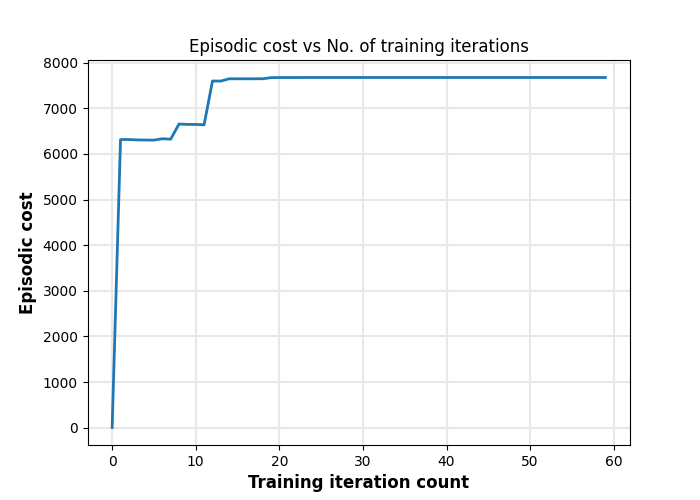
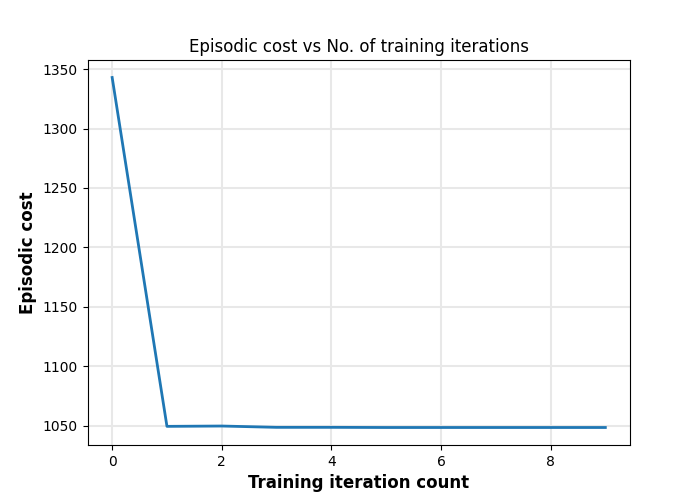
corrected main_ilqr

diff --git a/src/main_ilqr.py b/src/main_ilqr.py
@@ -89,10 +89,10 @@ class iLQR:
 
     def backward_pass(self):
         ################## defining local functions & variables for faster access ################
-        k = self.k
-        K = self.K
-        V_x = self.V_x
-        V_xx = self.V_xx
+        k = np.copy(self.k)
+        K = np.copy(self.K)
+        V_x = np.copy(self.V_x)
+        V_xx = np.copy(self.V_xx)
         ##########################################################################################
 
         V_x[self.N-1] = self.l_x_N(self.X[self.N-1])	
@@ -121,10 +121,10 @@ class iLQR:
             except np.linalg.LinAlgError:
                 print("FAILED! Q_uu is not Positive definite at t=",t)
                 backward_pass_flag = 0
-                k = self.k
-                K = self.K
-                V_x = self.V_x
-                V_xx = self.V_xx
+                k = np.copy(self.k)
+                K = np.copy(self.K)
+                V_x = np.copy(self.V_x)
+                V_xx = np.copy(self.V_xx)
 
             else:
                 backward_pass_flag = 1
@@ -140,10 +140,10 @@ class iLQR:
                     V_xx[t-1] = Q_xx + ((K[t].T) @ (Q_uu @ K[t])) + ((K[t].T) @ Q_ux) + ((Q_ux.T) @ K[t])
 
 		######################### Update the new gains ##############################################
-        self.k = k
-        self.K = K
-        self.V_x = V_x
-        self.V_xx = V_xx
+        self.k = np.copy(k)
+        self.K = np.copy(K)
+        self.V_x = np.copy(V_x)
+        self.V_xx = np.copy(V_xx)
 
         return backward_pass_flag, del_J_alpha
     
@@ -152,8 +152,8 @@ class iLQR:
         #cost before forward pass
         J1 = self.calculate_total_cost(self.X_0, self.X, self.U, self.N)
 
-        self.X_temp = self.X
-        self.U_temp = self.U
+        self.X_temp = np.copy(self.X)
+        self.U_temp = np.copy(self.U)
 
         self.forward_pass_simulate()
 
@@ -162,8 +162,8 @@ class iLQR:
 
         if (J1-J2)/del_J_alpha < self.J_change_eps:
             forward_pass_flag = 0
-            self.X = self.X_temp
-            self.U = self.U_temp
+            self.X = np.copy(self.X_temp)
+            self.U = np.copy(self.U_temp)
         else:
             forward_pass_flag = 1
 
@@ -199,20 +199,6 @@ class iLQR:
                 self.U[t] = self.U_temp[t] + self.alpha*self.k[t] + (self.K[t] @ (self.X[t-1] - self.X_temp[t-1]))
                 self.X[t] = self.model.simulate(self.X[t-1].flatten(),self.U[t].flatten()).reshape(np.shape(self.X_0))
 
-    def incremental_cost(self,x,u):
-        '''
-			Incremental cost in terms of state and controls.
-            Can be overwritten in actual working example
-		'''
-        return (((x - self.X_N).T @ self.Q) @ (x - self.X_N)) + (((u.T) @ self.R) @ u)
-	
-    def terminal_cost(self,x):
-        '''
-			Terminal cost in terms of state.
-            Can be overwritten in actual working example
-		'''
-        return (((x - self.X_N).T @ self.Q_final) @ (x - self.X_N)) 
-
     def initialize_traj(self,u_init):
         """
         Initialize the nominal trajectory with an initial guess for control
@@ -235,6 +221,20 @@ class iLQR:
         total_cost += self.terminal_cost(state_traj[horizon-1])
 
         return total_cost
+    
+    def incremental_cost(self,x,u):
+        '''
+			Incremental cost in terms of state and controls.
+            Can be overwritten in actual working example
+		'''
+        return (((x - self.X_N).T @ self.Q) @ (x - self.X_N)) + (((u.T) @ self.R) @ u)
+	
+    def terminal_cost(self,x):
+        '''
+			Terminal cost in terms of state.
+            Can be overwritten in actual working example
+		'''
+        return (((x - self.X_N).T @ self.Q_final) @ (x - self.X_N)) 
 
     def inc_reg_mu(self):
         '''increase regularization variable mu'''

diff --git a/examples/vdp/run_vdp_ilqr.py b/examples/vdp/run_vdp_ilqr.py
@@ -42,21 +42,21 @@ if __name__=="__main__":
     # path_to_data = path_to_export / "vdp_D2C_data.txt"
 
     init_state = np.zeros((state_dimension,1))
-    init_state[0] = .02
+    init_state[0] = .2
     final_state = np.zeros((state_dimension, 1))
 
     print('Initial phase : \n', init_state)
     print('Goal phase : \n', final_state)
 	
     # No. of ILQR iterations to run
-    n_iterations = 60
+    n_iterations = 10
 
     # Create model instance
     run_vdp = RunVdp(mu, state_dimension, control_dimension, dt)
 
     # Create iLQR instance
     ilqr = iLQR(run_vdp, state_dimension, control_dimension, alpha, horizon, init_state, final_state, Q, Q_final, R, 
-                nominal_init_stddev, n_sys_id_samples=50, pert_sys_id_sigma=1e-3, arma_sys_id_flag = True)
+                nominal_init_stddev, n_sys_id_samples=100, pert_sys_id_sigma=1e-5, arma_sys_id_flag = True)
     ilqr.iterate_ilqr(n_iterations)
 
     ilqr.plot_episodic_cost_history(path_to_training_cost_fig)

diff --git a/src/main_pod_ilqr.py b/src/main_pod_ilqr.py
@@ -83,6 +83,7 @@ class POD_iLQR(iLQR):
         Fx_Fu = self.ltv_sys_id.traj_sys_id(np.concatenate((self.X_0.reshape(1, self.n_x, 1), self.X), axis=0), self.U)
         
         for t in range(self.N-1, -1, -1):
+        # for t in range(self.N-1, max(self.q, self.q_u)-1, -1):
             F_x = Fx_Fu[t][:,:self.n_x]
             F_u = Fx_Fu[t][:,self.n_x:]
 
@@ -92,7 +93,6 @@ class POD_iLQR(iLQR):
         # # A_aug, B_aug, V_z_F_XU_XU, traj = self.sys_id(x_0, u_nom, central_diff=1, V_x=V_x)
 
         # # for t in range(self.N-1, -1, -1):
-        # for t in range(self.N-1, max(self.q, self.q_u)-1, -1):
         #     F_x = A_aug[t]
         #     F_u = B_aug[t]
 

diff --git a/examples/vdp/vdp_params.py b/examples/vdp/vdp_params.py
@@ -14,12 +14,12 @@ R = .05*np.eye(control_dimension)
 
 # Number of substeps in simulation
 ctrl_state_freq_ratio = 1
-dt = 0.01
+dt = 0.1
 horizon = 20 #800
 nominal_init_stddev = 0.1
 
-q = 2
-q_u = 2
+q = 1
+q_u = 1
 alpha = 0.7
 
 # Cost parameters for feedback design
